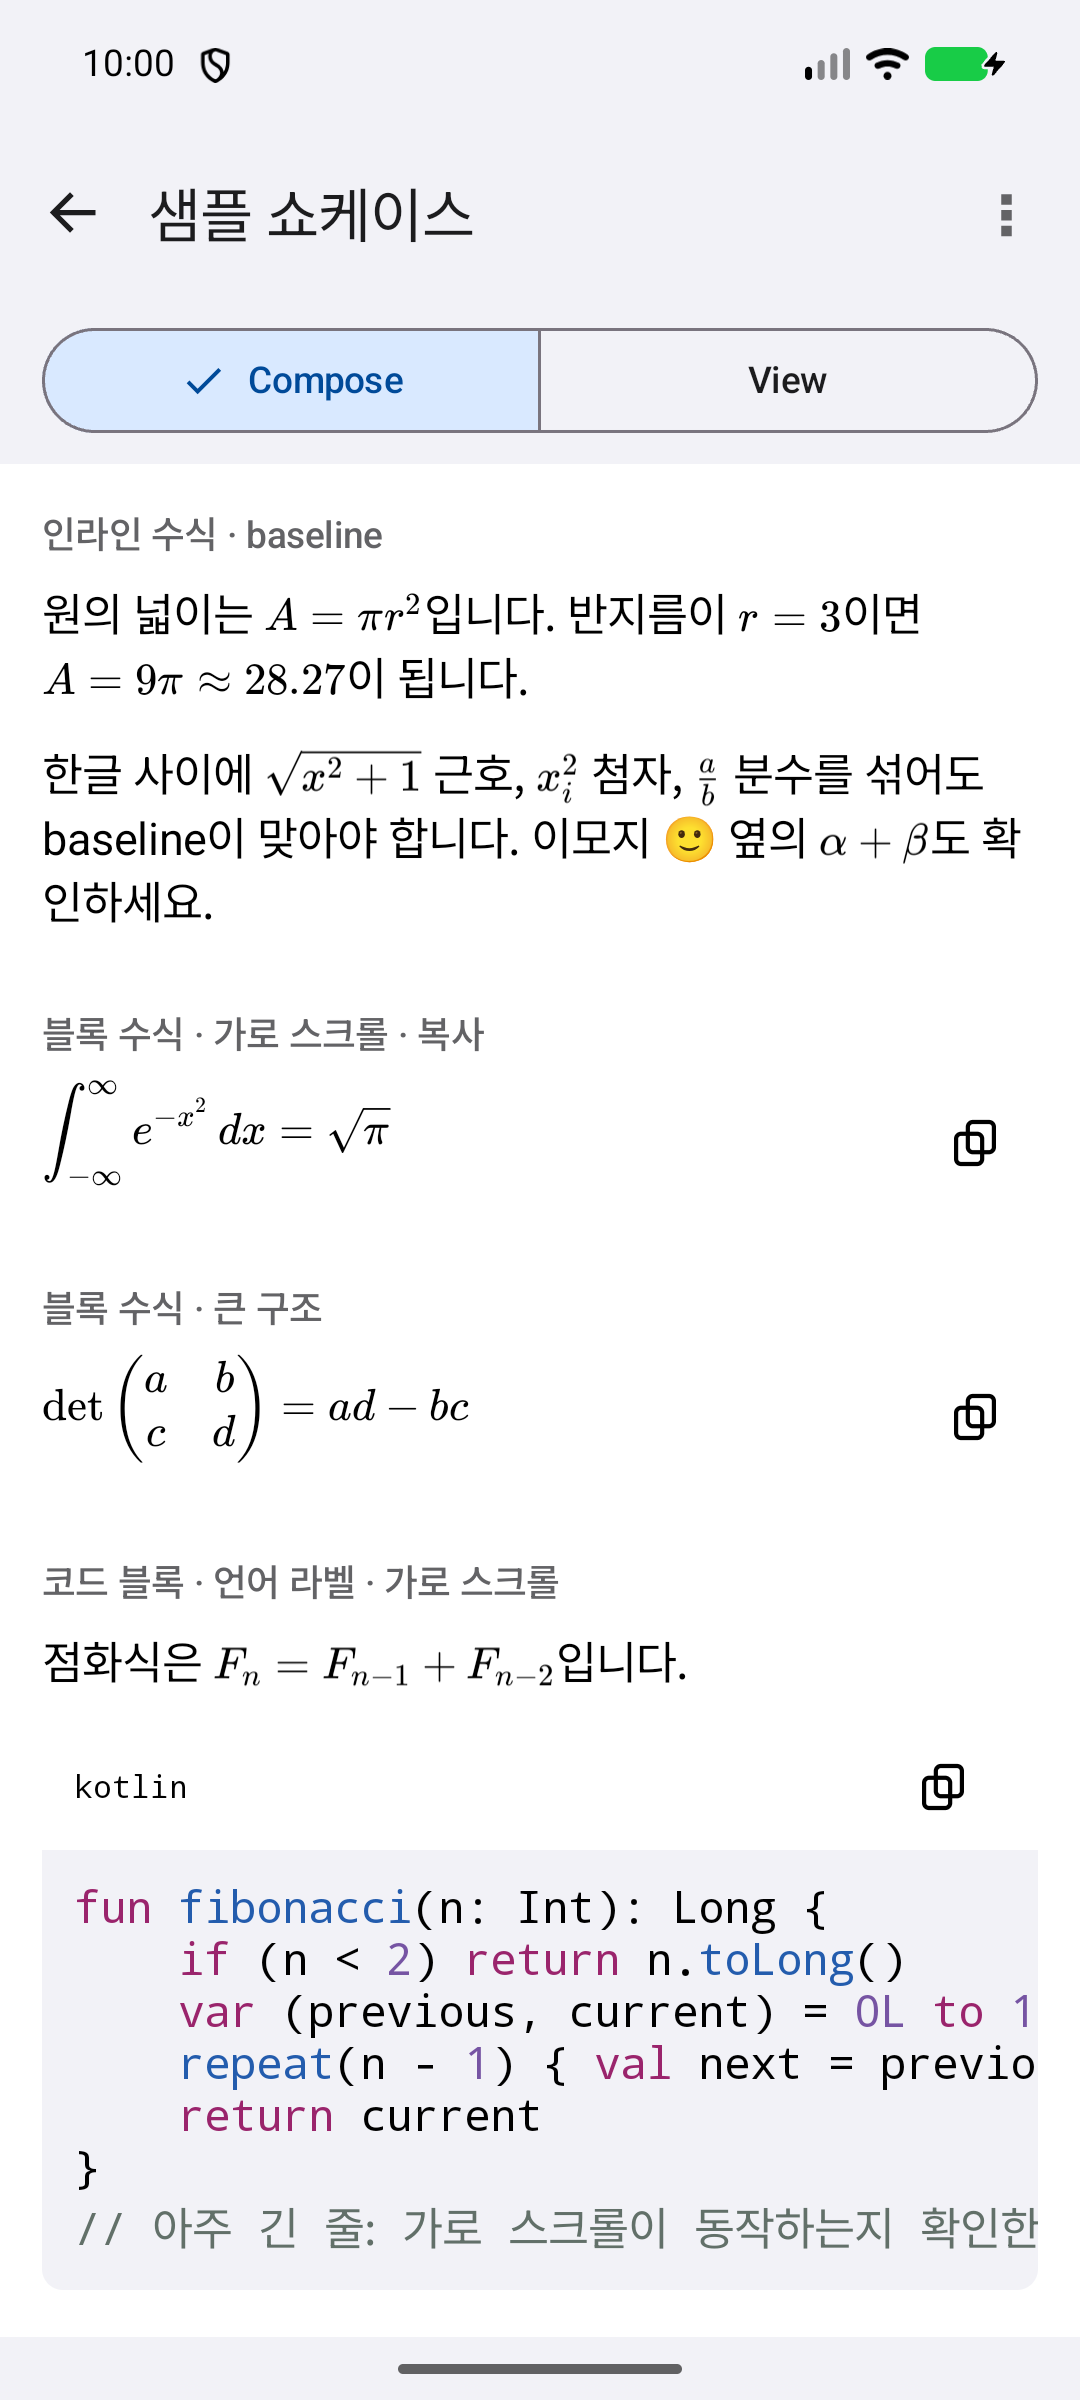
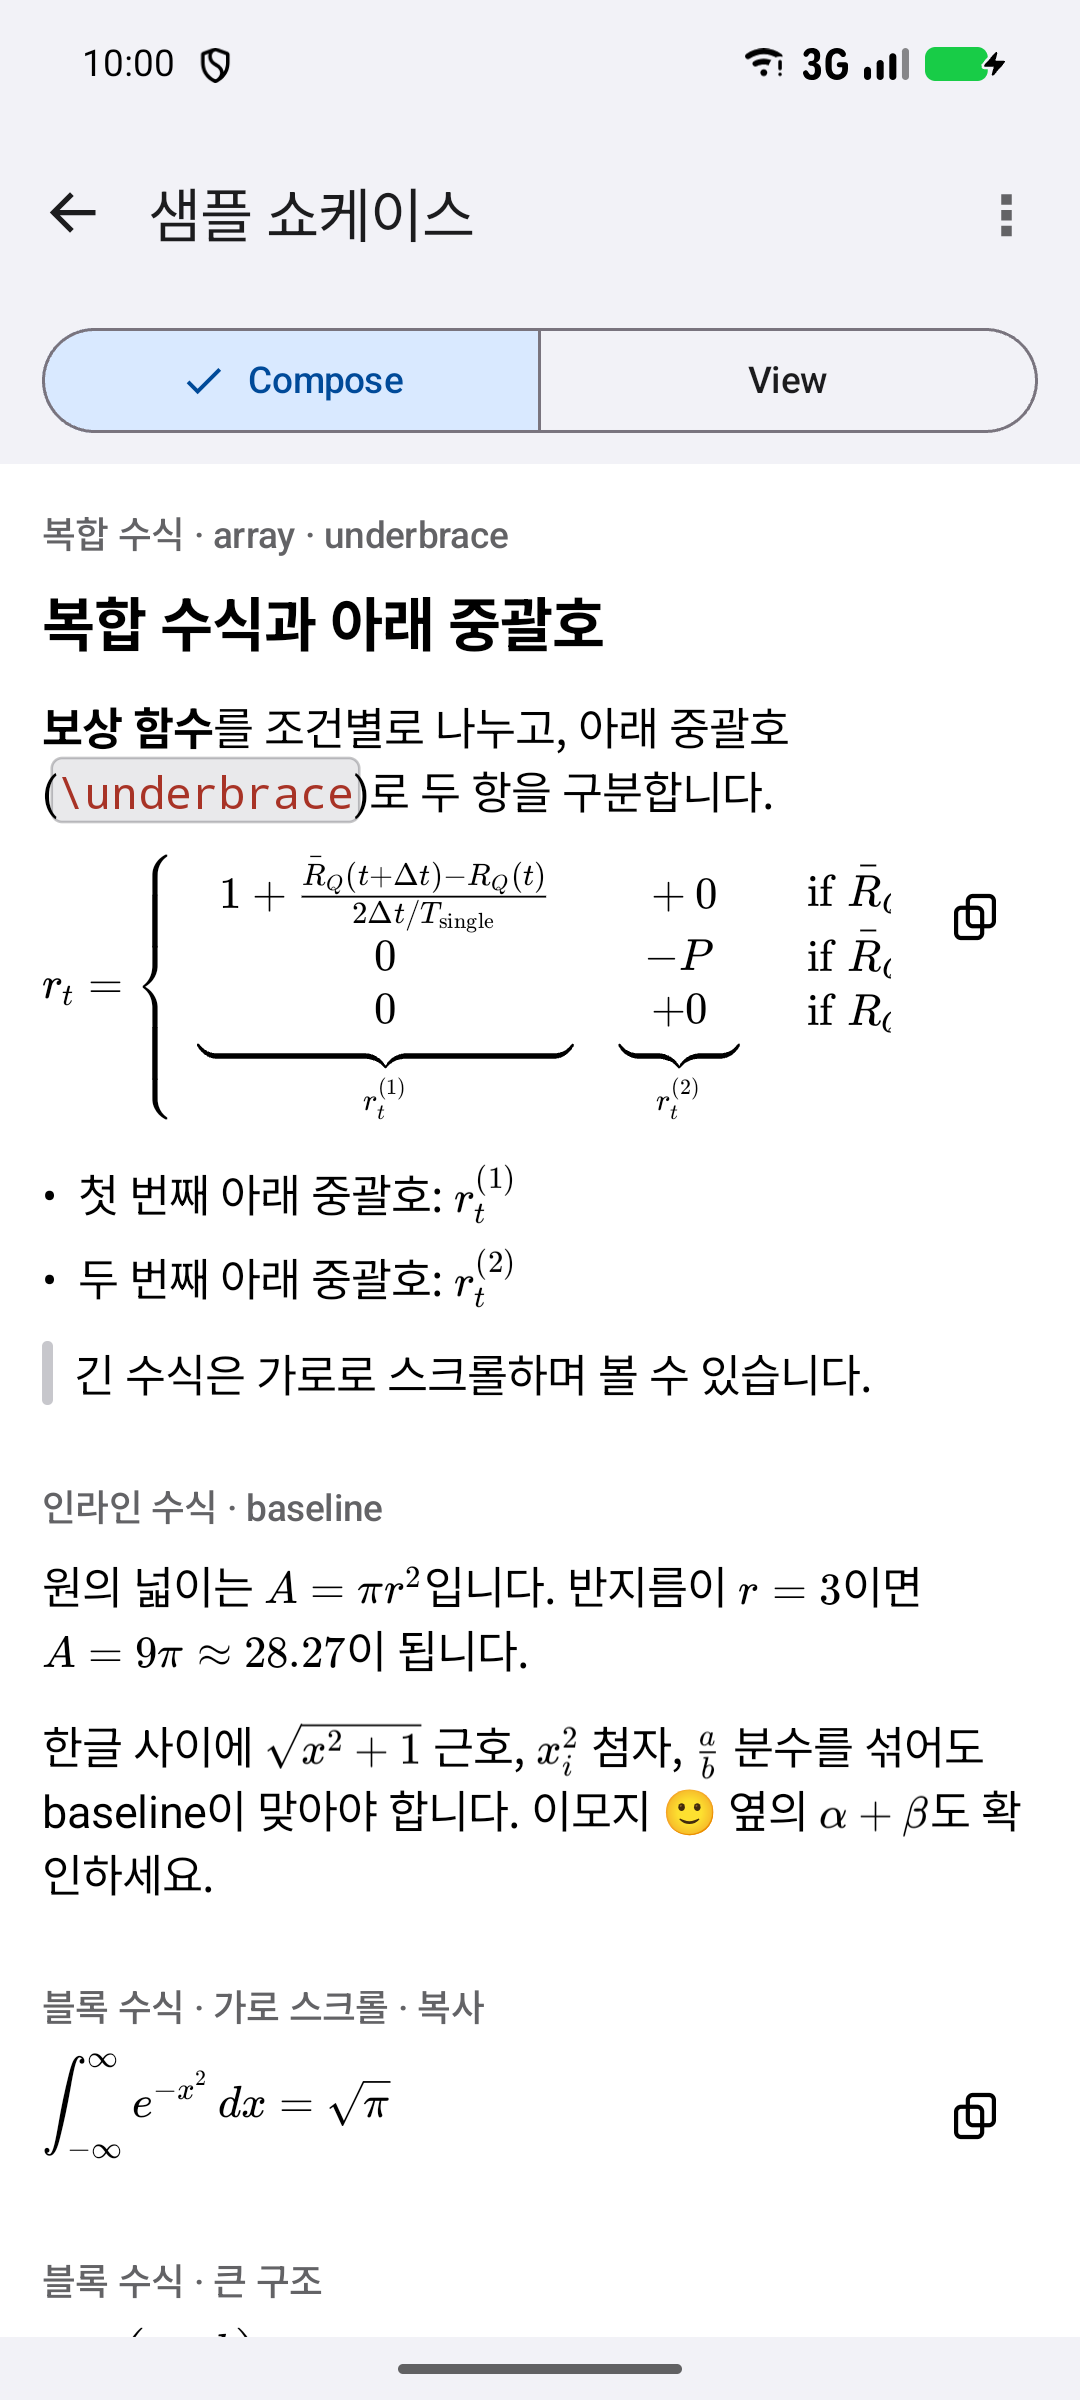
docs: 쇼케이스 스크린샷을 복합 수식 구획 포함으로 교체
0.1.0에서 쇼케이스 첫 구획에 «복합 수식 · array · underbrace»를 넣었지만
README 01·02 컷은 그 전에 찍혀 있었다. Pixel_6 에뮬레이터(API 37.1)에서
scripts/capture-demo-screens.sh로 다시 찍고 두 장만 교체한다. 나머지 컷은
화면 변경이 없어 그대로 둔다. 표 설명과 alt text를 함께 갱신한다.

diff --git a/README.md b/README.md
@@ -44,8 +44,8 @@ WebView 없이 네이티브로 렌더한다. Jetpack Compose는 `RichMarkdown()`
 
 | 전체 샘플 · Compose | 전체 샘플 · View |
 |---|---|
-| <img src="docs/screenshots/01-showcase-compose.png" alt="인라인 수식과 블록 수식을 나열한 Compose 쇼케이스" width="260"> | <img src="docs/screenshots/02-showcase-view.png" alt="같은 샘플 문서를 View 렌더러로 표시한 쇼케이스" width="260"> |
-| 수식, Markdown, 표, 코드 등 전체 샘플을 순서대로 살펴본다. | 같은 원문을 두 렌더러로 비교하며 옵션 메뉴에서 표시 설정을 바꾼다. |
+| <img src="docs/screenshots/01-showcase-compose.png" alt="array와 두 underbrace로 나눈 복합 수식부터 시작하는 Compose 쇼케이스" width="260"> | <img src="docs/screenshots/02-showcase-view.png" alt="같은 복합 수식과 샘플 문서를 View 렌더러로 표시한 쇼케이스" width="260"> |
+| `array`·`\underbrace` 복합 수식을 시작으로 수식, Markdown, 표, 코드 등 전체 샘플을 순서대로 살펴본다. 넓은 수식은 가로로 스크롤한다. | 같은 원문을 두 렌더러로 비교하며 옵션 메뉴에서 표시 설정을 바꾼다. |
 
 ### SSE 스트리밍
 
